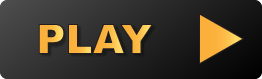
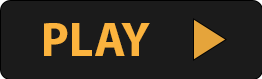
Add files via upload

diff --git a/src/game.js b/src/game.js
@@ -372,10 +372,13 @@ var Game =
           { id: "nextQuestion", src: "img/arrowNext.png" },
           { id: "checkMarkSprite", src: "img/submitSprite.png" },
           { id: "closeButton", src: "img/exitYellowBtn.png" },
-          { id: "sceneBg", src: "img/sceneBg.png" },
-          { id: "sceneBg1", src: "img/sceneBg-1.png" },
+          { id: "sceneBg", src: "img/sceneBg.jpg" },
+          { id: "sceneBg1", src: "img/sceneBg-1.jpg" },
+          { id: "sceneBg2", src: "img/sceneBg-2.jpg" },
+          { id: "sceneBg3", src: "img/sceneBg-3.jpg" },
           { id: "title_background", src: "img/crosswordBackgroundTitle.png" },
           { id: "start_button", src: "img/playButton.png" },
+          { id: "next_button", src: "img/nextButton.png" },
           { id: "delete_button", src: "img/garbageCan.png" },
           // { id: "instructions_background", src: "img/instructions_background.png" },
           // { id: "instructions_question", src: "img/instructions_question.png" },
@@ -1335,7 +1338,7 @@ var Game =
         var gameOverContainer = new createjs.Container();
         // var background = new createjs.Shape();
         var background = new createjs.Bitmap(
-          resourceLoader.getResult("sceneBg")
+          resourceLoader.getResult("sceneBg2")
         );
         var gameOverBox = new createjs.Bitmap(
           resourceLoader.getResult("gameOverBox")
@@ -1438,7 +1441,7 @@ var Game =
         var gameOverContainer = new createjs.Container();
         // var background = new createjs.Shape();
         var background = new createjs.Bitmap(
-          resourceLoader.getResult("sceneBg1")
+          resourceLoader.getResult("sceneBg3")
         );
         var gameOverBox1 = new createjs.Bitmap(
           resourceLoader.getResult("gameOverBox")
@@ -3100,7 +3103,7 @@ var Game =
       function createTitleView1() {
         var view = new createjs.Container();
         var startButton = new createjs.Bitmap(
-          resourceLoader.getResult("start_button")
+          resourceLoader.getResult("next_button")
         );
         startButton.hitArea = new createjs.Shape(
           new createjs.Graphics().beginFill("#f00").drawRect(0, 0, 262, 79)
@@ -3145,7 +3148,7 @@ var Game =
       function createTitleView2() {
         var view = new createjs.Container();
         var startButton = new createjs.Bitmap(
-          resourceLoader.getResult("start_button")
+          resourceLoader.getResult("next_button")
         );
         startButton.hitArea = new createjs.Shape(
           new createjs.Graphics().beginFill("#f00").drawRect(0, 0, 262, 79)
@@ -5021,10 +5024,8 @@ var Game =
         views.pointsText.text = score + " pts.";
         console.log(score);
         if (score != 700) {
-          views.gameOverBox.alpha = 0.0;
           views.gameOverBox1.alpha = 1.0;
         } else {
-          views.gameOverBox1.alpha = 0.0;
           views.gameOverBox.alpha = 1.0;
         }
         if (!scoreSubmitted) {
